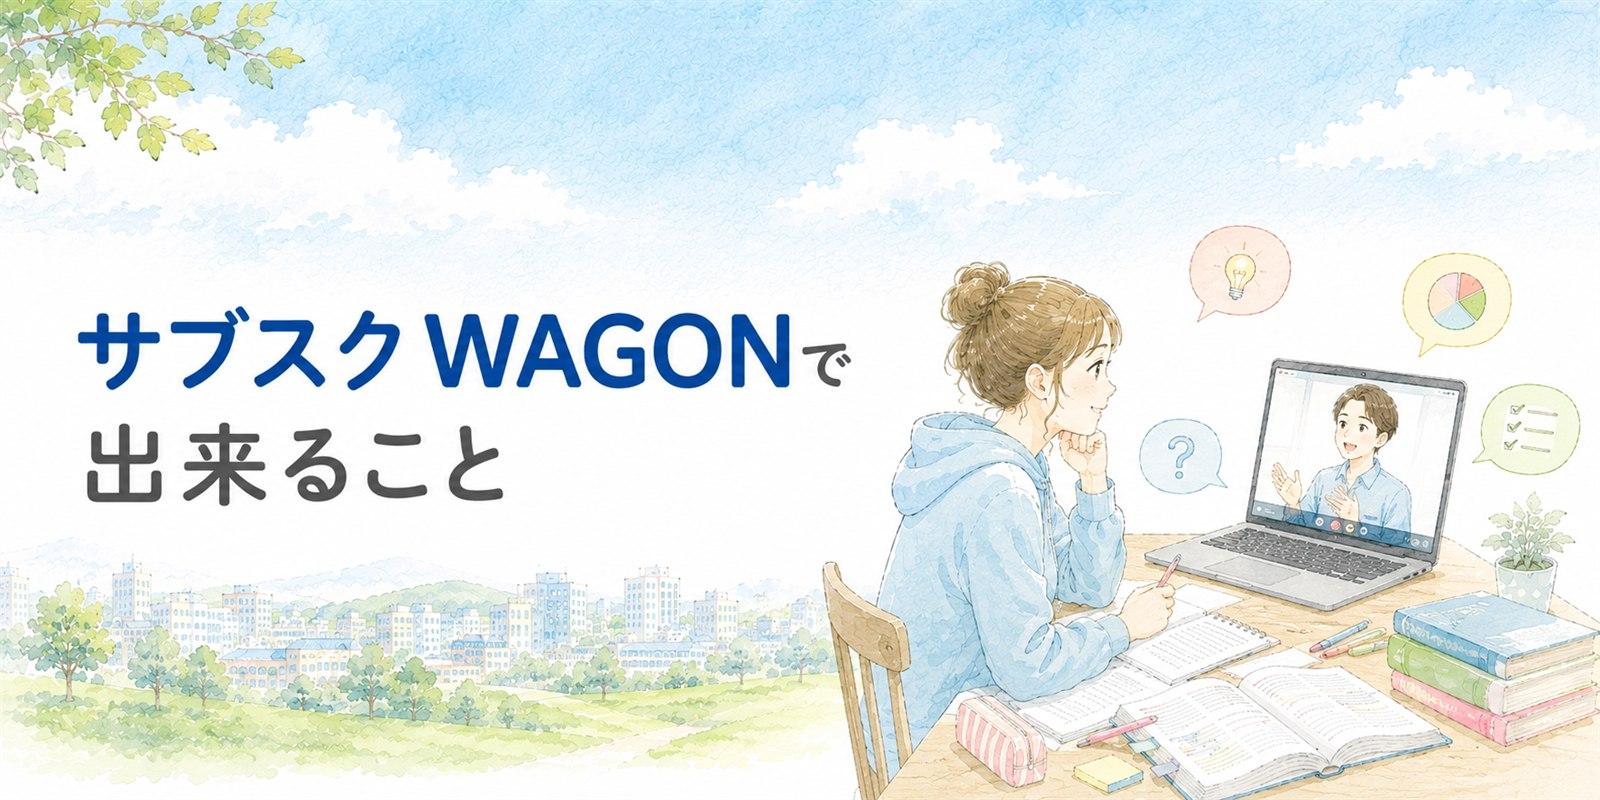
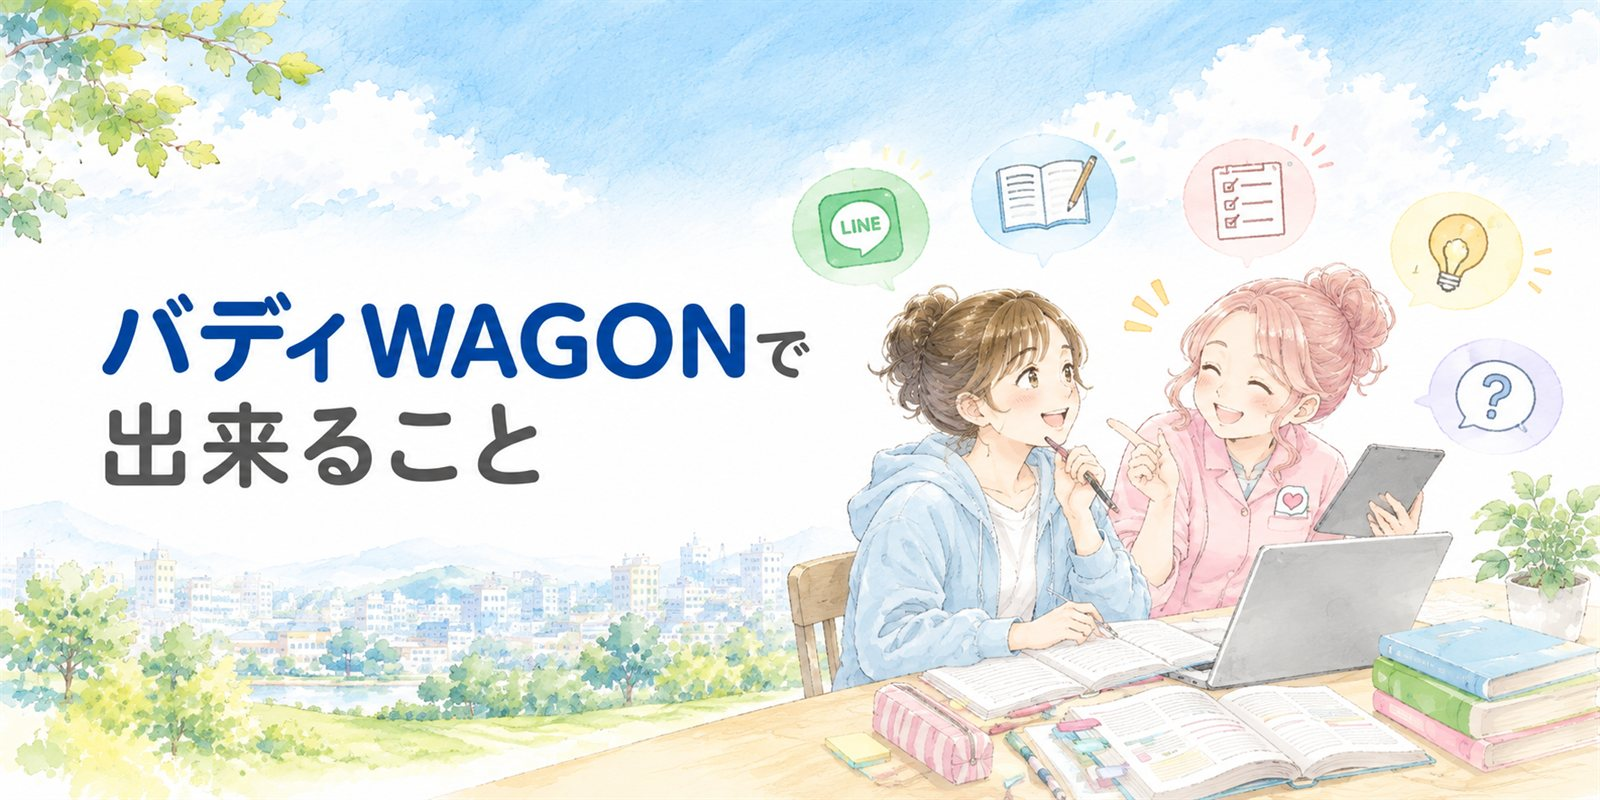
トップ画像を「バディWAGONで出来ること」に差しかえ、subscription.htmlを画像の見出しに戻す

diff --git a/site/subscription.html b/site/subscription.html
@@ -74,10 +74,17 @@ src="https://www.facebook.com/tr?id=2817935241910493&ev=PageView&noscript=1"
 ]}
 </script>
 <script type="application/ld+json">
-{"@context":"https://schema.org","@type":"WebPage","url":"https://wagon-nurse.com/subscription.html","dateModified":"2026-09-24","speakable":{"@type":"SpeakableSpecification","cssSelector":[".page-hero .sub",".faq-a"]}}
+{"@context":"https://schema.org","@type":"WebPage","url":"https://wagon-nurse.com/subscription.html","dateModified":"2026-09-24","speakable":{"@type":"SpeakableSpecification","cssSelector":[".page-hero-sub",".faq-a"]}}
 </script>
 <style>
-  .page-hero .formerly{ position:relative; z-index:2; display:inline-block; margin-top:14px; padding:3px 12px; border-radius:999px; background:rgba(255,255,255,.85); color:var(--ink-soft); font-size:12px; font-weight:700; }
+  .page-hero.custom-img{
+    background:url('/assets/img/subscription-hero.jpg') center/cover no-repeat;
+    aspect-ratio:1600/800; padding:0; max-width:1600px; margin:0 auto 40px;
+  }
+  .page-hero.custom-img::before, .page-hero.custom-img::after{ content:none; }
+  main.page .page-hero-sub{ text-align:center; font-size:14px; color:var(--ink-soft); max-width:680px; margin:18px auto 0; word-break:keep-all; overflow-wrap:break-word; }
+  .formerly{ text-align:center; margin:10px 0 0; }
+  .formerly span{ display:inline-block; padding:3px 12px; border-radius:999px; background:#EAF8FC; color:var(--ink-soft); font-size:12px; font-weight:700; }
   .svc-grid{ display:grid; grid-template-columns:1fr 1fr; gap:14px; margin-top:18px; }
   @media (max-width:640px){ .svc-grid{ grid-template-columns:1fr; } }
   .svc{ background:var(--card-bg); border:1px solid var(--line); border-radius:14px; padding:16px 18px; box-shadow:var(--card-shadow); font-size:13.5px; color:var(--ink-soft); }
@@ -135,11 +142,11 @@ src="https://www.facebook.com/tr?id=2817935241910493&ev=PageView&noscript=1"
 </header>
 
 <main class="page has-hero">
-  <div class="page-hero">
-    <h1>バディWAGON</h1>
-    <p class="sub">サブスクWAGONで使えていたものは、すべてそのまま。そこに、担任のほうからLINEで関わる仕組みが加わりました。</p>
-    <span class="formerly">旧サブスクWAGON</span>
+  <div class="page-hero custom-img">
+    <h1 style="position:absolute; width:1px; height:1px; overflow:hidden; clip:rect(0 0 0 0); white-space:nowrap;">バディWAGON</h1>
   </div>
+  <p class="page-hero-sub">サブスクWAGONで使えていたものは、すべてそのまま。そこに、担任のほうからLINEで関わる仕組みが加わりました。</p>
+  <p class="formerly"><span>旧サブスクWAGON</span></p>
 
   <section>
     <h2 class="hl">使えるもの</h2>
